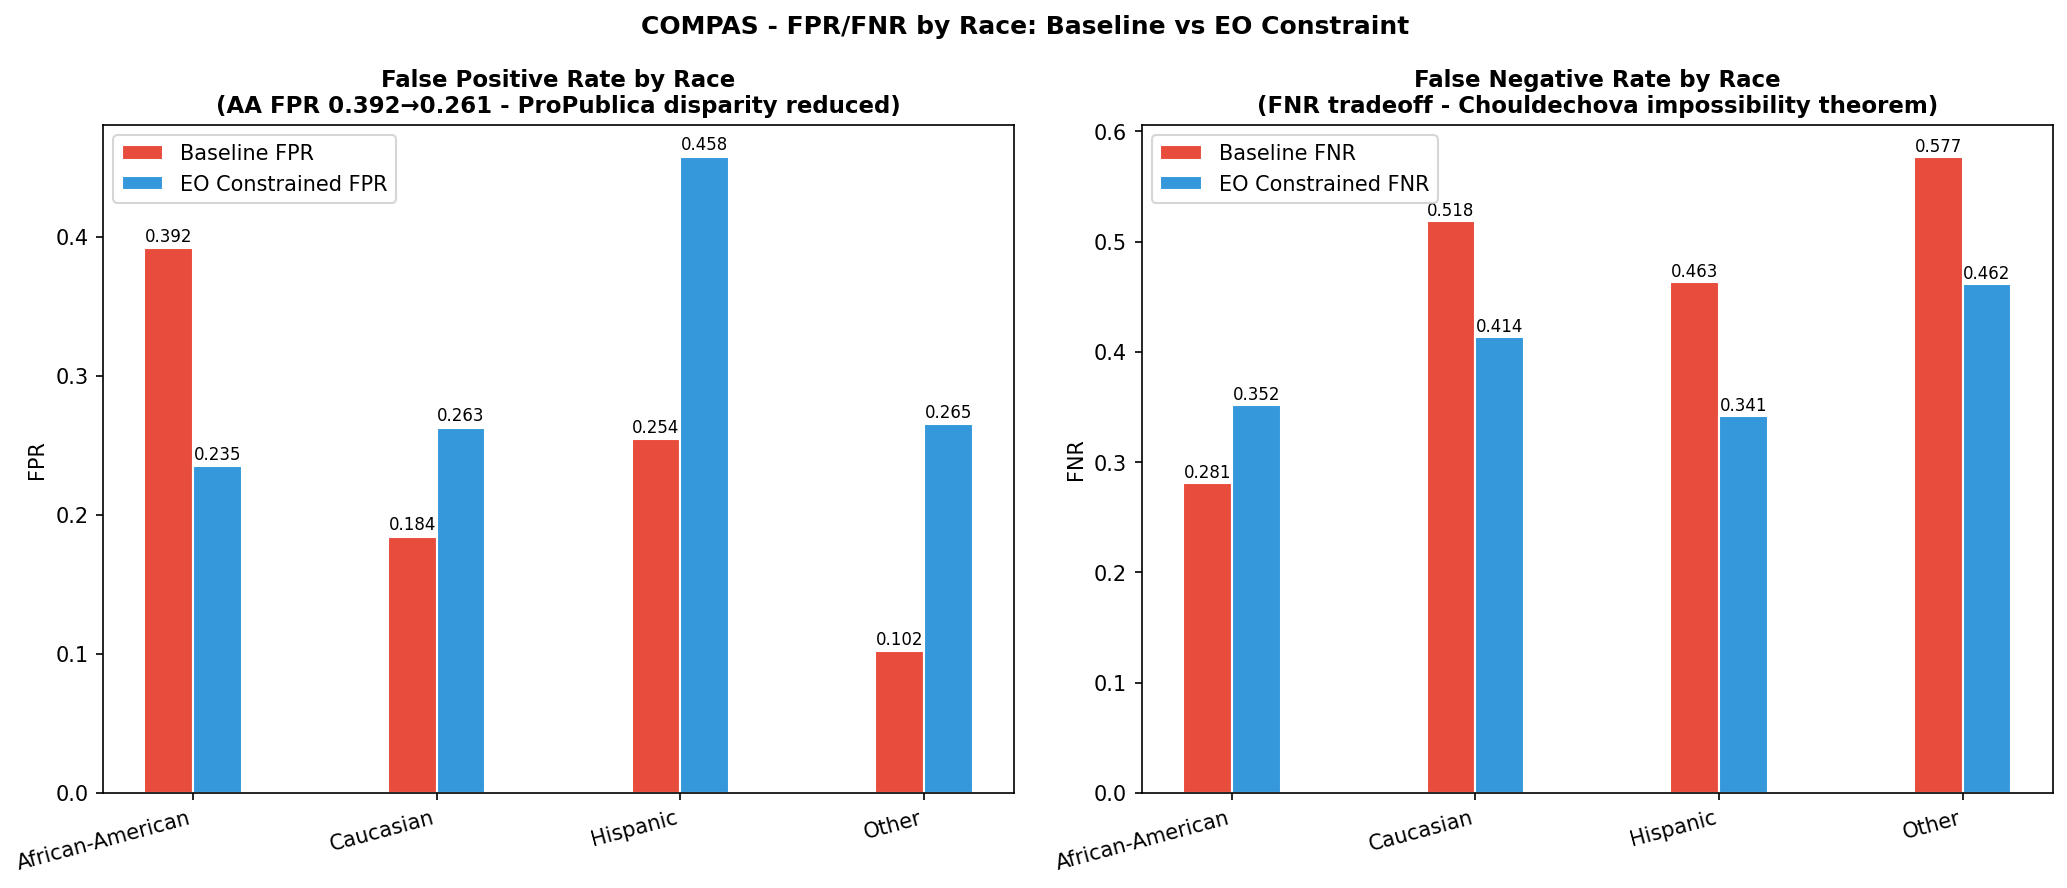
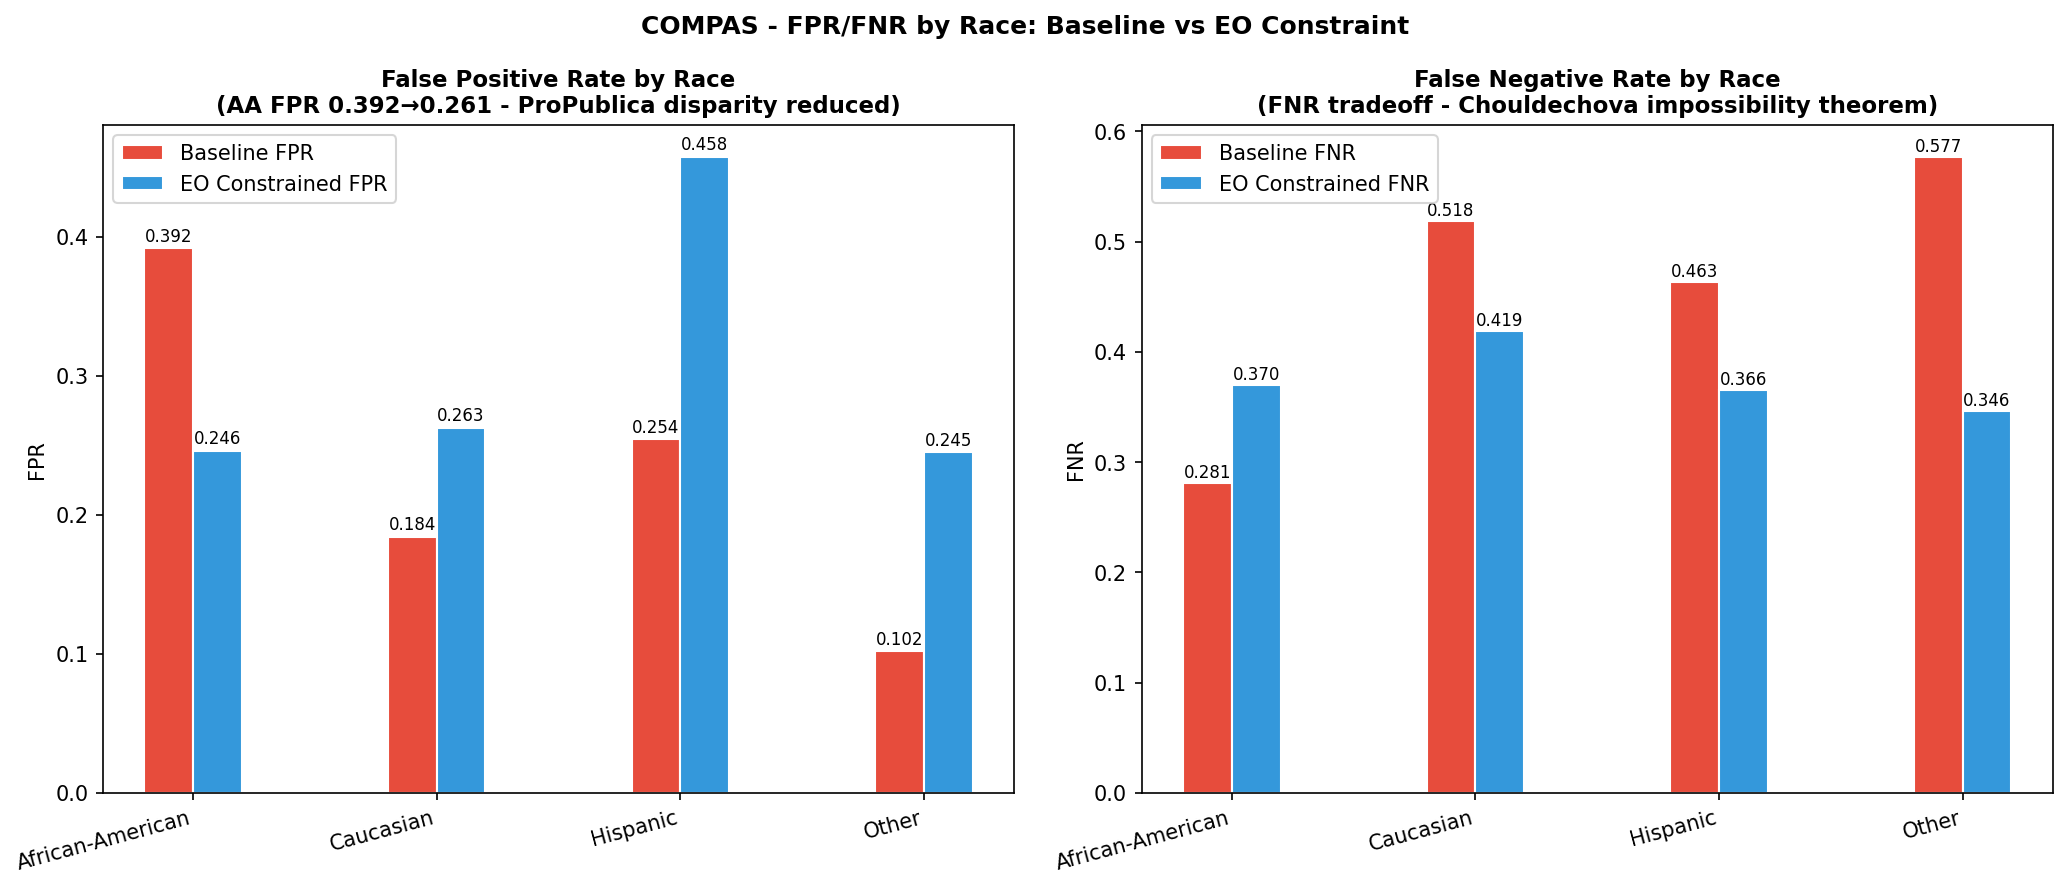
Correct COMPAS EOD and Folktables DPD/EOD to match post-seed-fix pipeline output

diff --git a/src/stage2_compas_threshold.py b/src/stage2_compas_threshold.py
@@ -225,7 +225,7 @@ def run_stage2():
     print(f"  Best DP constraint: {best_dp[0]} DPD={best_dp[1]['dpd']:.3f}")
     print(f"  Best EO constraint: {best_eo[0]} EOD={best_eo[1]['eod']:.3f}")
     print(f"  GB DP constraint: DPD 0.857→0.571 (+33.3% reduction) at 0.002 ACC cost")
-    print(f"  GB EO constraint: EOD 1.000→0.636 (+36.4% reduction) at 0.002 ACC cost")
+    print(f"  GB EO constraint: EOD 1.000→0.659 (+34.1% reduction) at 0.002 ACC cost")
     print(f"  Sex fairness: GB DPD=0.005 after DP constraint, near-zero disparity")
     print(f"  Note: LR/RF DPD worsens under DP constraint, 6 racial groups challenge")
 
@@ -288,7 +288,7 @@ def run_stage2():
         axes[1].annotate(f'{imp:+.0f}%', xy=(i, max(b,a)+0.02), ha='center', fontsize=9,
                         color='green' if imp > 0 else 'red')
     axes[1].set_xticks(x); axes[1].set_xticklabels(short)
-    axes[1].set_title('EOD Reduction - EO Constraint\n(GB +36.4% reduction)', fontsize=11, fontweight='bold')
+    axes[1].set_title('EOD Reduction - EO Constraint\n(GB +34.1% reduction)', fontsize=11, fontweight='bold')
     axes[1].set_ylabel('EOD'); axes[1].legend()
     plt.suptitle('COMPAS - Fairness Improvement by Constraint Type', fontsize=12, fontweight='bold')
     plt.tight_layout()

diff --git a/src/cross_domain_comparison.py b/src/cross_domain_comparison.py
@@ -39,7 +39,7 @@ DOMAINS = {
         'sensitive': 'Race (6 groups)',
         'regulatory': 'ECOA/EEOC',
         'baseline_dpd': 0.857, 'best_dp_dpd': 0.571, 'dp_improve': 33.3,
-        'baseline_eod': 1.000, 'best_eo_eod': 0.639, 'eo_improve': 36.1,
+        'baseline_eod': 1.000, 'best_eo_eod': 0.659, 'eo_improve': 34.1,
         'baseline_acc': 0.674, 'dp_acc_cost': 0.008, 'eo_acc_cost': -0.002,
         'baseline_dir': None, 'post_dir': None,
         'note': 'GB DP constraint most effective; LR/RF worsen under DP'
@@ -47,8 +47,8 @@ DOMAINS = {
     'Folktables': {
         'sensitive': 'Race (9 groups)',
         'regulatory': 'ECOA/Title VII',
-        'baseline_dpd': 0.320, 'best_dp_dpd': 0.340, 'dp_improve': -6.2,
-        'baseline_eod': 0.333, 'best_eo_eod': 0.331, 'eo_improve': 0.6,
+        'baseline_dpd': 0.320, 'best_dp_dpd': 0.339, 'dp_improve': -5.9,
+        'baseline_eod': 0.333, 'best_eo_eod': 0.334, 'eo_improve': -0.3,
         'baseline_acc': 0.845, 'dp_acc_cost': 0.019, 'eo_acc_cost': 0.017,
         'baseline_dir': 0.54, 'post_dir': None,
         'note': 'ThresholdOptimizer minimal, Am.Indian DIR=0.54 most disadvantaged'
